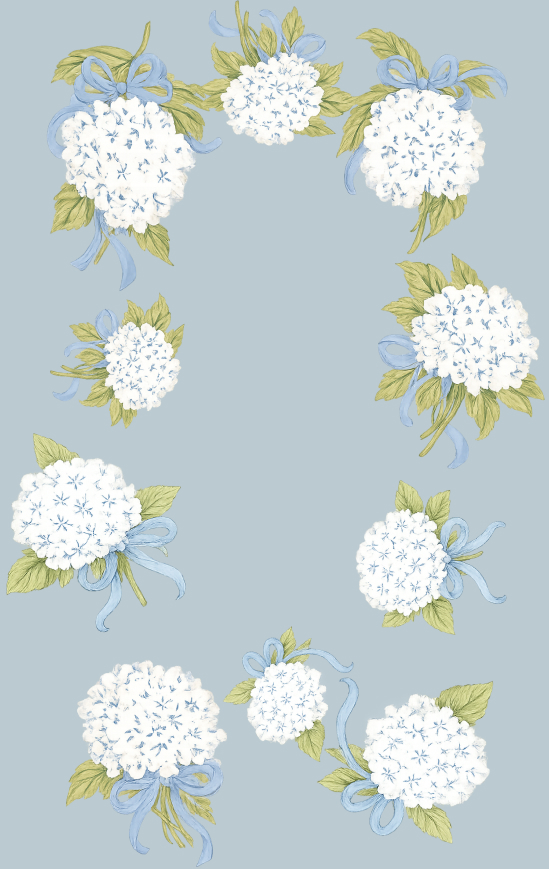
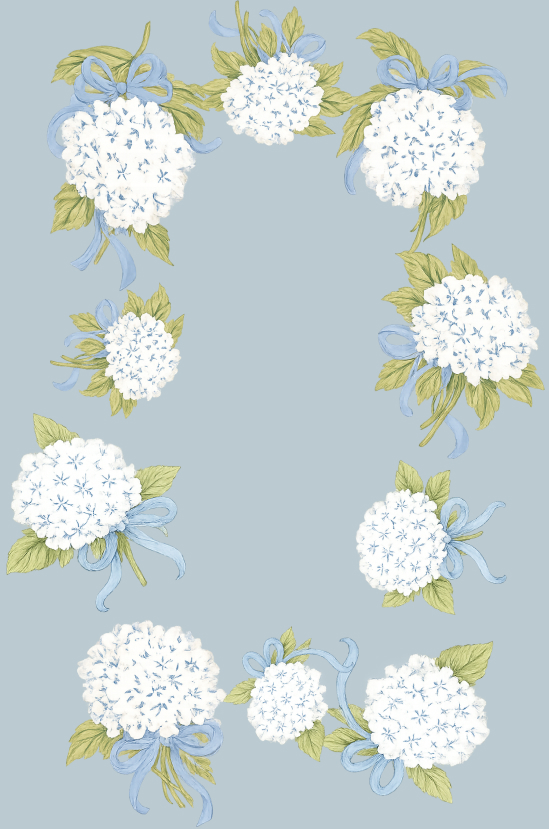
animation

Changed region(s): [[0.0929, 0.0302, 0.9909, 0.7539], [0.0, 0.5127, 0.898, 0.9952], [0.898, 0.6936, 0.929, 0.7238]]

diff --git a/index-no-animation.html b/index-no-animation.html
@@ -69,8 +69,8 @@
       background: rgba(184,160,106,0.5);
     }
 
-    /* ── mweb portrait only: nav moves to bottom, border+spacing moves to top ── */
-    @media (max-width: 599px) and (orientation: portrait) {
+    /* ── mweb: nav moves to bottom, border+spacing moves to top ── */
+    @media (max-width: 599px) {
       .bg {
         top: 0;
         bottom: var(--nav-h);
@@ -121,7 +121,7 @@
       overflow: hidden;
       z-index: 10;
     }
-    @media (max-width: 599px) and (orientation: portrait) {
+    @media (max-width: 599px) {
       .scroll-container {
         top: 0;
         bottom: var(--nav-h);
@@ -147,20 +147,7 @@
       padding: 20px 16px;
     }
 
-    /* ── Landscape phone: free scroll, no snapping ── */
-    @media (max-width: 900px) and (orientation: landscape) {
-      .scroll-container {
-        overflow-y: auto;
-      }
-      .panels-track {
-        height: auto;
-        transition: none;
-      }
-      .panel {
-        height: auto;
-        min-height: 100vh;
-      }
-    }
+    @media (min-width: 600px) { .panel { padding: 28px 24px; } }
     @media (min-width: 900px) { .panel { padding: 36px 40px; } }
 
     /* ── Card ── */
@@ -490,20 +477,9 @@
   }
 }
 
-/* ── Petal canvas ── */
-#petal-canvas {
-  position: fixed;
-  top: 0; left: 0;
-  width: 100%; height: 100%;
-  pointer-events: none;
-  z-index: 5;
-}
-
 </style>
 </head>
 <body>
-
-<canvas id="petal-canvas"></canvas>
 
 <div class="bg" id="bg"></div>
 
@@ -617,12 +593,7 @@
     document.getElementById('nav-2')
   ];
 
-  function isLandscapePhone() {
-    return window.innerWidth <= 900 && window.innerWidth > window.innerHeight;
-  }
-
   function goTo(index) {
-    if (isLandscapePhone()) return;
     if (isAnimating || index === current) return;
     isAnimating = true;
     current = index;
@@ -633,7 +604,6 @@
 
   let wheelLocked = false;
   window.addEventListener('wheel', e => {
-    if (isLandscapePhone()) return;
     e.preventDefault();
     if (wheelLocked) return;
     const dir = e.deltaY > 0 ? 1 : e.deltaY < 0 ? -1 : 0;
@@ -641,31 +611,20 @@
     wheelLocked = true;
     if (dir > 0) goTo(Math.min(2, current + 1));
     else goTo(Math.max(0, current - 1));
+    // Unlock only after animation finishes + small buffer for momentum events to pass
     setTimeout(() => { wheelLocked = false; }, 1000);
   }, { passive: false });
 
   let touchStartY = 0;
   window.addEventListener('touchstart', e => { touchStartY = e.touches[0].clientY; }, { passive: true });
   window.addEventListener('touchend', e => {
-    if (isLandscapePhone()) return;
     const dy = e.changedTouches[0].clientY - touchStartY;
     if (Math.abs(dy) > 50) goTo(dy < 0 ? Math.min(2, current + 1) : Math.max(0, current - 1));
   }, { passive: true });
 
   document.addEventListener('keydown', e => {
-    if (isLandscapePhone()) return;
     if (e.key === 'ArrowDown' || e.key === 'PageDown') goTo(Math.min(2, current + 1));
     if (e.key === 'ArrowUp'   || e.key === 'PageUp')   goTo(Math.max(0, current - 1));
-  });
-
-  window.addEventListener('resize', () => {
-    if (isLandscapePhone()) {
-      track.style.transform = '';
-      track.style.transition = 'none';
-    } else {
-      track.style.transition = '';
-      track.style.transform = `translateY(-${(100 / 3) * current}%)`;
-    }
   });
 
   document.querySelectorAll('.attend-pills input[type="radio"]').forEach(r => {
@@ -696,115 +655,6 @@
       alert('Something went wrong. Please try again.');
     }
   }
-
-  // ── Hydrangea petal animation ──
-  (function() {
-    const canvas = document.getElementById('petal-canvas');
-    const ctx = canvas.getContext('2d');
-
-    const COLORS = [
-      'rgba(180,200,220,0.75)',
-      'rgba(210,225,235,0.70)',
-      'rgba(245,240,228,0.72)',
-      'rgba(160,185,210,0.68)',
-      'rgba(200,215,230,0.65)',
-      'rgba(225,215,240,0.60)',
-      'rgba(185,195,215,0.70)',
-    ];
-
-    function resize() {
-      canvas.width  = window.innerWidth;
-      canvas.height = window.innerHeight;
-    }
-    resize();
-    window.addEventListener('resize', resize);
-
-    function drawPetal(ctx, x, y, size, rotation, color) {
-      ctx.save();
-      ctx.translate(x, y);
-      ctx.rotate(rotation);
-      ctx.globalAlpha = 1;
-
-      const lobes = 4;
-      const lobeR = size * 0.42;
-      const dist  = size * 0.28;
-
-      ctx.beginPath();
-      for (let i = 0; i < lobes; i++) {
-        const angle = (i / lobes) * Math.PI * 2;
-        const lx = Math.cos(angle) * dist;
-        const ly = Math.sin(angle) * dist;
-        ctx.save();
-        ctx.translate(lx, ly);
-        ctx.rotate(angle);
-        ctx.ellipse(0, 0, lobeR, lobeR * 0.72, 0, 0, Math.PI * 2);
-        ctx.restore();
-      }
-      ctx.fillStyle = color;
-      ctx.fill();
-
-      ctx.strokeStyle = 'rgba(255,255,255,0.35)';
-      ctx.lineWidth = 0.6;
-      for (let i = 0; i < lobes; i++) {
-        const angle = (i / lobes) * Math.PI * 2;
-        ctx.beginPath();
-        ctx.moveTo(0, 0);
-        ctx.lineTo(Math.cos(angle) * size * 0.55, Math.sin(angle) * size * 0.55);
-        ctx.stroke();
-      }
-
-      ctx.beginPath();
-      ctx.arc(0, 0, size * 0.09, 0, Math.PI * 2);
-      ctx.fillStyle = 'rgba(255,255,255,0.6)';
-      ctx.fill();
-
-      ctx.restore();
-    }
-
-    const PETAL_COUNT = 22;
-    const petals = [];
-
-    function randomPetal(fromTop) {
-      const size = 10 + Math.random() * 16;
-      return {
-        x:           Math.random() * canvas.width,
-        y:           fromTop ? -size * 2 : Math.random() * canvas.height,
-        size,
-        color:       COLORS[Math.floor(Math.random() * COLORS.length)],
-        rotation:    Math.random() * Math.PI * 2,
-        rotSpeed:    (Math.random() - 0.5) * 0.006,
-        vx:          (Math.random() - 0.5) * 0.2,
-        vy:          0.15 + Math.random() * 0.25,
-        wobble:      Math.random() * Math.PI * 2,
-        wobbleSpeed: 0.009 + Math.random() * 0.009,
-        opacity:     0.5 + Math.random() * 0.5,
-      };
-    }
-
-    for (let i = 0; i < PETAL_COUNT; i++) petals.push(randomPetal(false));
-
-    function tick() {
-      ctx.clearRect(0, 0, canvas.width, canvas.height);
-
-      for (let p of petals) {
-        p.wobble   += p.wobbleSpeed;
-        p.x        += p.vx + Math.sin(p.wobble) * 0.22;
-        p.y        += p.vy;
-        p.rotation += p.rotSpeed;
-
-        ctx.globalAlpha = p.opacity;
-        drawPetal(ctx, p.x, p.y, p.size, p.rotation, p.color);
-
-        if (p.y > canvas.height + p.size * 2) {
-          Object.assign(p, randomPetal(true));
-        }
-      }
-
-      requestAnimationFrame(tick);
-    }
-
-    tick();
-  })();
 </script>
 </body>
 </html>
